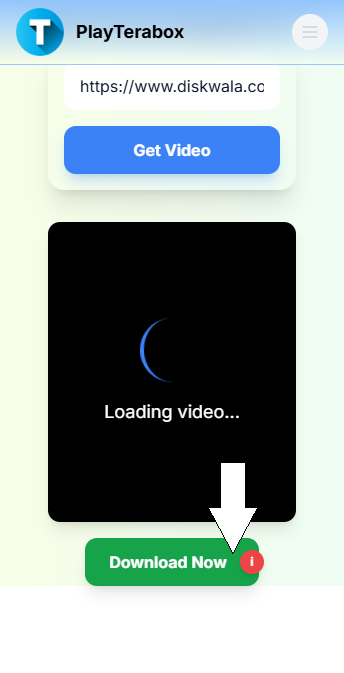
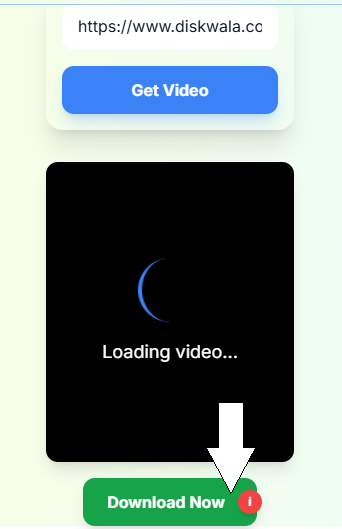
new data

diff --git a/src/app/page.js b/src/app/page.js
@@ -33,10 +33,10 @@ export default function Home() {
       <main className="min-h-screen bg-white text-black p-6">
         {/* Section above the downloader */}
         <section
-  className="min-h-[600px] px-8 pt-16 bg-gradient-to-r from-lime-50 to-green-50 w-screen"
+  className="min-h-[600px] px-8 pt-16 bg-gradient-to-r from-white-50 to-white-50 w-screen"
   style={{ marginLeft: "calc(-50vw + 50%)", width: "100vw" }}
 >
-  <h1 className="text-2xl font-extrabold text-center text-black rounded-lg p-1">
+  <h1 className="text-3xl font-extrabold text-center text-black rounded-lg p-1">
   Diskwala Video Downloader & Online Player
   </h1>
   <p className="text-sm text-center text-black mt-1">
@@ -54,7 +54,7 @@ export default function Home() {
 <p className="text-lg text-slate-900">
   Diskwala is not just another cloud storage platform. It’s a revolutionary digital hub designed for anyone who needs a secure, reliable, and easy-to-use solution for storing, sharing, and streaming files.
 </p>
-<div className="text-center mb-8"><img src="/diskwala-icon.png" alt="Diskwala.com Icon" className="inline-block w-[24rem] h-[24rem]" /></div>
+<div className="text-center mb-8"><img src="/diskwala-logo.png" alt="Diskwala.com Icon" className="inline-block w-[24rem] h-[7rem]" /></div>
 <h3 className="text-2xl font-bold text-slate-900 mt-8">
   Key Features of Diskwala.com
 </h3>

diff --git a/src/app/(links)/dmca/page.js b/src/app/(links)/dmca/page.js
@@ -38,7 +38,7 @@ const Content = () => {
           <strong>DMCA Policy</strong>
         </p>
         <p>
-          Welcome to teradownloader.com's DMCA Policy page. Here, we outline our
+          Welcome to TheDiskWala.com's DMCA Policy page. Here, we outline our
           procedures for reporting copyright violations and handling repeat
           infringements.
         </p>
@@ -85,7 +85,7 @@ const Content = () => {
           This website is not an official Terabox website and we are not
           associated with terabox.app or Flextech Inc.
         </p>
-        <p>© 2024 - Present TeraDownloader.com All rights reserved.</p>
+        <p>© 2024 - Present TheDiskWala.com All rights reserved.</p>
       </section>
 
       <div className="bg-gray-50 dark:bg-gray-900 rounded-lg p-6 mt-8">

diff --git a/src/components/Header.jsx b/src/components/Header.jsx
@@ -23,7 +23,7 @@ export function Header() {
   };
 
   return (
-    <header className="fixed top-0 left-0 right-0 z-50 bg-gradient-to-b from-blue-300 to-transparent backdrop-blur-md border-b border-white/5">
+    <header className="fixed top-0 left-0 right-0 z-50 bg-gradient-to-b from-gray-200 to-white-300 backdrop-blur-md border-b border-white/5">
       <div className="max-w-7xl mx-auto px-4 sm:px-6 lg:px-8">
         <div className="flex items-center justify-between h-16">
           {/* Logo Section */}
